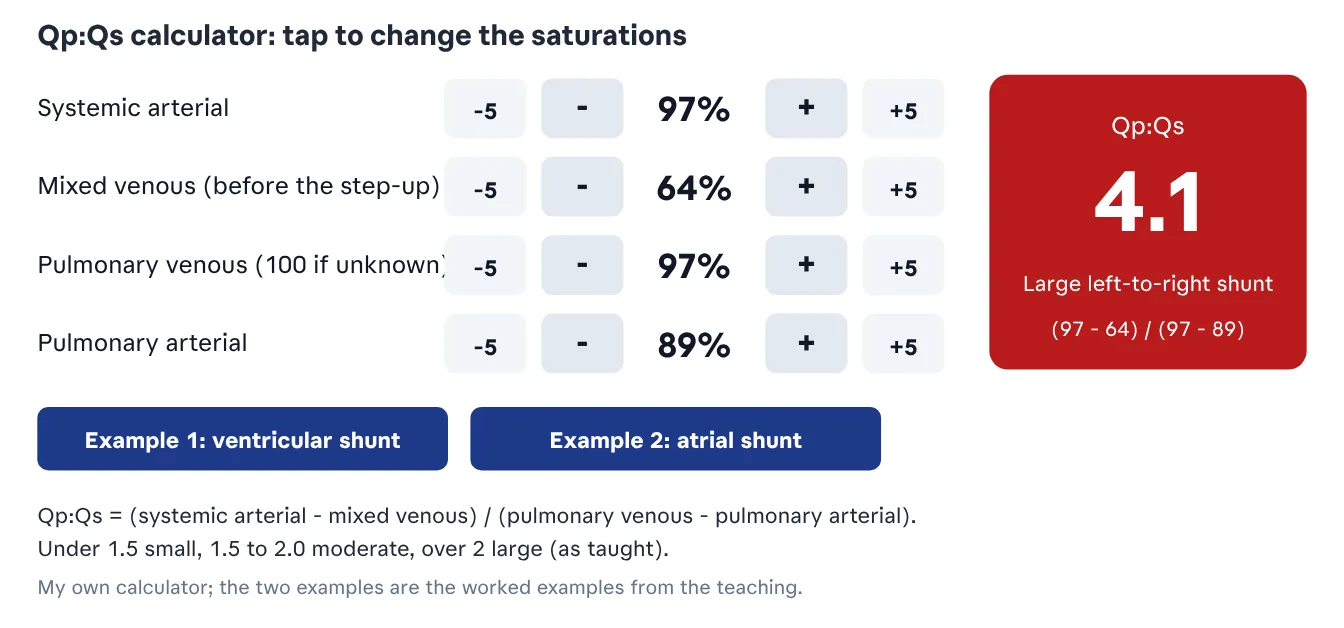
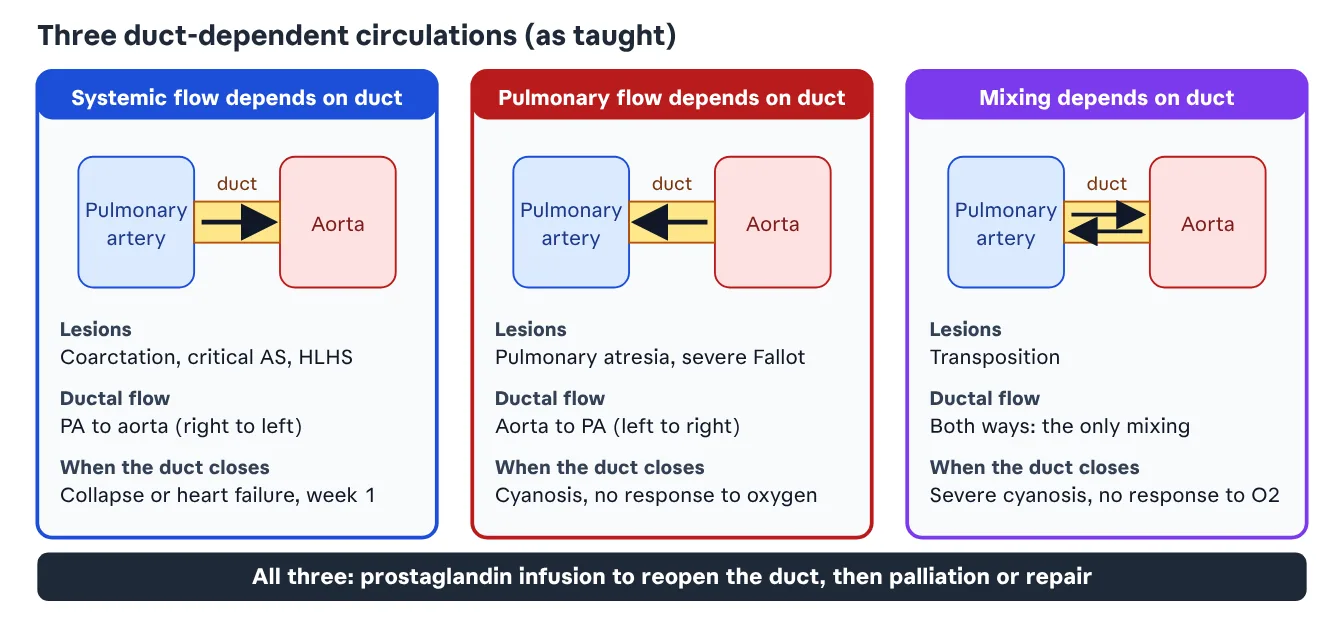
Congenital 5: seven more schematics redrawn from the teaching figures
Claude-Session: https://claude.ai/code/session_01Rh3NCGU1qAttPZ8CRZtk9w

diff --git a/st4/index.html b/st4/index.html
@@ -22007,6 +22007,7 @@ mark{background:var(--hit);color:inherit;border-radius:2px}
 <section id="tab-g4" data-slug="g4" data-title="4 Perioperative and transition" hidden><h1 id="g4--congenital-4-pulmonary-valve-ebstein-and-transition">Congenital 4: pulmonary valve, Ebstein and transition</h1><details class="toc"><summary>Contents (4 sections)</summary><ol><li><a href="#g4/g4--g2-addition-neonatal-and-infant-coarctation">G2 addition: neonatal and infant coarctation</a></li><li><a href="#g4/g4--g4-pulmonary-atresia-with-intact-ventricular-septum">G4: pulmonary atresia with intact ventricular septum</a></li><li><a href="#g4/g4--g5-ebstein-anomaly-in-neonates-and-infants">G5: Ebstein anomaly in neonates and infants</a></li><li><a href="#g4/g4--g6-ebstein-anomaly-in-older-children-and-adults">G6: Ebstein anomaly in older children and adults</a></li></ol></details><p>Congenital topics taken from the society-integrated handbook and not covered in the other congenital tabs. The evidence labels (Guideline, Consensus, Practical) are the handbook's; its 2026 sources were not checked by me.</p><h2 id="g4--g2-addition-neonatal-and-infant-coarctation">G2 addition: neonatal and infant coarctation</h2><p>Guideline (STS 2024). Surgery is standard. Without significant arch hypoplasia, repair through a thoracotomy; with hypoplasia that cannot be dealt with from that side, sternotomy is preferred. Selected higher-risk infants may be managed medically first; low weight alone is not a reason never to operate.</p><h2 id="g4--g4-pulmonary-atresia-with-intact-ventricular-septum">G4: pulmonary atresia with intact ventricular septum</h2><p>Consensus (AATS 2025).</p><div class="tw"><table><tr><th>Question</th><th>Content</th></tr><tr><td>Anatomy</td><td>RV size and morphology, tricuspid size and function, atrial communication, pulmonary arteries and duct, coronary pattern</td></tr><tr><td>The critical question</td><td>Is coronary perfusion dependent on RV pressure? Catheter assessment where needed</td></tr><tr><td>Favourable RV, no RV-dependent coronary circulation</td><td>Decompression may allow a biventricular pathway</td></tr><tr><td>Borderline RV</td><td>One-and-a-half ventricle or staged approach, reassessing growth</td></tr><tr><td>RV-dependent coronary circulation</td><td>Do not decompress the RV; single ventricle or transplant strategies</td></tr><tr><td>Pulmonary blood flow</td><td>Ductal stent or surgical shunt according to anatomy</td></tr></table></div><h2 id="g4--g5-ebstein-anomaly-in-neonates-and-infants">G5: Ebstein anomaly in neonates and infants</h2><p>Consensus (AATS 2024).</p><ul><li>High-risk features: severe cardiomegaly, prematurity, growth restriction, pulmonary atresia, circular shunt, LV dysfunction, shock.</li><li>Circular shunt: ductal flow passes back through pulmonary and tricuspid regurgitation; instability can require emergency interruption. This is why keeping every duct open is unsafe shorthand.</li><li>Refractory shock: Starnes palliation in selected neonates.</li><li>Stable without high-risk physiology: may improve as the duct closes, under specialist monitoring.</li><li>Inadequate pulmonary flow: ductal stent or shunt, a different problem from circular shunt.</li><li>After palliation, reassess for biventricular or single ventricle progression.</li></ul><h2 id="g4--g6-ebstein-anomaly-in-older-children-and-adults">G6: Ebstein anomaly in older children and adults</h2><p>Consensus (AATS 2025; over one year of age).</p><ul><li>Triggers: fatigue, objective fall in exercise capacity, cyanosis, exertional breathlessness. Use exercise testing and MRI, not symptoms alone.</li><li>MRI: both ventricles, regurgitant fraction, RV stroke volume.</li><li>Rhythm: look for accessory pathways and atrial arrhythmia and plan electrophysiology or surgical treatment; a concomitant Maze is reasonable with AF.</li><li>Valve: repair, usually cone reconstruction, or replacement by anatomy and expertise.</li><li>Bidirectional cavopulmonary shunt as an adjunct in severe RV compromise, not routinely.</li></ul></section>
 <section id="tab-g5" data-slug="g5" data-title="5 Core principles (London teaching 2024)" hidden><h1 id="g5--congenital-5-core-principles-london-deanery-teaching-2024">Congenital 5: core principles (London Deanery teaching 2024)</h1><details class="toc"><summary>Contents (15 sections)</summary><ol><li><a href="#g5/g5--basics">Basics</a></li><li><a href="#g5/g5--fetal-and-transitional-circulation">Fetal and transitional circulation</a></li><li><a href="#g5/g5--neonatal-physiology">Neonatal physiology</a></li><li><a href="#g5/g5--ductus-arteriosus">Ductus arteriosus</a></li><li><a href="#g5/g5--duct-dependent-circulations">Duct-dependent circulations</a></li><li><a href="#g5/g5--shunts-and-qp-qs">Shunts and Qp:Qs</a></li><li><a href="#g5/g5--morphology">Morphology</a></li><li><a href="#g5/g5--septal-defects">Septal defects</a></li><li><a href="#g5/g5--duct-coarctation-and-arch">Duct, coarctation and arch</a></li><li><a href="#g5/g5--tetralogy-of-fallot">Tetralogy of Fallot</a></li><li><a href="#g5/g5--transposition-of-the-great-arteries">Transposition of the great arteries</a></li><li><a href="#g5/g5--common-arterial-trunk-truncus-arteriosus">Common arterial trunk (truncus arteriosus)</a></li><li><a href="#g5/g5--total-anomalous-pulmonary-venous-drainage">Total anomalous pulmonary venous drainage</a></li><li><a href="#g5/g5--hypoplastic-left-heart-and-single-ventricle-palliation">Hypoplastic left heart and single-ventricle palliation</a></li><li><a href="#g5/g5--general-approach-to-any-congenital-lesion">General approach to any congenital lesion</a></li></ol></details>
 <p>Added 19 November 2026 from the slide deck you attached, read in full (92 slides): "Surgery for congenital heart disease", Shafi Mussa, Consultant Congenital Cardiac Surgeon, Bristol; London Deanery teaching programme, 21 November 2024. Everything here is <strong>as taught</strong> unless a row says otherwise; I have not checked the figures against guidelines. Rows marked "memory" are my additions. The drawings are my own; the slide images are not copied.</p>
+<p>About the pictures (19 November 2026): about 50 slides carry a figure. I looked at every one. They are textbook and atlas illustrations, specimen photographs, angiograms and operative photographs belonging to other people, and this notebook's app is on a public web address, so I have not copied them in. Instead each figure's content is redrawn below as my own schematic (ten drawings and one calculator), and anything a figure showed that the slide text did not say is written into the tables and marked. Three kinds of picture cannot be replaced by a schematic and are worth looking at in the original deck: the specimen photographs of the right and left ventricle and the conduction axis (slides 29, 30, 33, 34), the outflow tract stent angiograms (slide 58), and the operative photographs of transposition and the arterial switch (slides 63 and 66).</p>
 <h2 id="g5--basics">Basics</h2>
 <div class="tw"><table>
 
@@ -22075,6 +22076,8 @@ mark{background:var(--hit);color:inherit;border-radius:2px}
 </tr>
 
 </table></div>
+<figure><img loading="lazy" src="img/g5-1.webp" width="1344" height="890" alt="Fetal circulation as two streams, and the fall in pulmonary vascular resistance after birth (my own schematic)"><figcaption>Fetal circulation as two streams, and the fall in pulmonary vascular resistance after birth (my own schematic)</figcaption></figure>
+<p>Shown on the slides as graphs, not in the text: after birth pulmonary artery pressure and resistance fall while pulmonary blood flow rises; and the fetal haemoglobin dissociation curve lies to the left of the adult curve, so fetal blood is more saturated at any given pO2.</p>
 <h2 id="g5--neonatal-physiology">Neonatal physiology</h2>
 <ul>
 <li><p>High metabolic rate and oxygen consumption; high respiratory rate and cardiac index.</p></li>
@@ -22149,7 +22152,7 @@ mark{background:var(--hit);color:inherit;border-radius:2px}
 </tr>
 
 </table></div>
-<figure><img loading="lazy" src="img/g5-1.webp" width="1344" height="628" alt="The three duct-dependent circulations (my own schematic)"><figcaption>The three duct-dependent circulations (my own schematic)</figcaption></figure>
+<figure><img loading="lazy" src="img/g5-2.webp" width="1344" height="628" alt="The three duct-dependent circulations (my own schematic)"><figcaption>The three duct-dependent circulations (my own schematic)</figcaption></figure>
 <h2 id="g5--shunts-and-qp-qs">Shunts and Qp:Qs</h2>
 <div class="tw"><table>
 
@@ -22222,6 +22225,7 @@ mark{background:var(--hit);color:inherit;border-radius:2px}
 
 </table></div>
 <div class="qpqs" style="border:1px solid var(--line);border-radius:10px;padding:14px;margin:1.2em 0;background:var(--card)"><strong>Qp:Qs calculator</strong><div style="font-size:.9em;margin:.4em 0">Enter the saturations (%). Use 100 for pulmonary venous if not given.</div><label style="display:flex;justify-content:space-between;align-items:center;margin:.35em 0">Systemic arterial <input id="q_sa" type="number" inputmode="numeric" min="20" max="100" value="97" oninput="qpqs()" style="width:5em;font-size:1.1em;padding:.3em;text-align:right"></label><label style="display:flex;justify-content:space-between;align-items:center;margin:.35em 0">Mixed venous (before the step-up) <input id="q_sv" type="number" inputmode="numeric" min="20" max="100" value="64" oninput="qpqs()" style="width:5em;font-size:1.1em;padding:.3em;text-align:right"></label><label style="display:flex;justify-content:space-between;align-items:center;margin:.35em 0">Pulmonary venous <input id="q_pv" type="number" inputmode="numeric" min="20" max="100" value="97" oninput="qpqs()" style="width:5em;font-size:1.1em;padding:.3em;text-align:right"></label><label style="display:flex;justify-content:space-between;align-items:center;margin:.35em 0">Pulmonary arterial <input id="q_pa" type="number" inputmode="numeric" min="20" max="100" value="89" oninput="qpqs()" style="width:5em;font-size:1.1em;padding:.3em;text-align:right"></label><div style="margin:.5em 0"><button type="button" onclick="qpset(97,64,97,89)" style="padding:.45em .7em;margin-right:.5em">Example 1: ventricular</button><button type="button" onclick="qpset(96,70,96,80)" style="padding:.45em .7em">Example 2: atrial</button></div><div id="q_out" style="font-size:1.25em;font-weight:700;margin-top:.5em"></div><div style="font-size:.85em;opacity:.8;margin-top:.3em">Qp:Qs = (systemic arterial - mixed venous) / (pulmonary venous - pulmonary arterial). Under 1.5 small, 1.5 to 2.0 moderate, over 2 large (as taught).</div></div><script>function qpqs(){var g=function(i){return parseFloat(document.getElementById(i).value)};var d=g("q_pv")-g("q_pa"),o=document.getElementById("q_out");if(!(d>0)||isNaN(d)){o.textContent="Not calculable";return}var r=(g("q_sa")-g("q_sv"))/d;if(isNaN(r)){o.textContent="Not calculable";return}o.textContent="Qp:Qs "+r.toFixed(1)+" - "+(r<1?"net right-to-left":r<1.5?"small left-to-right shunt":r<=2?"moderate left-to-right shunt":"large left-to-right shunt")}function qpset(a,b,c,d){document.getElementById("q_sa").value=a;document.getElementById("q_sv").value=b;document.getElementById("q_pv").value=c;document.getElementById("q_pa").value=d;qpqs()}qpqs()</script>
+<figure><img loading="lazy" src="img/g5-4.webp" width="1344" height="666" alt="The two worked examples as saturation maps, with the step-up highlighted (my own layout)"><figcaption>The two worked examples as saturation maps, with the step-up highlighted (my own layout)</figcaption></figure>
 <p>Mixed venous saturation when the step-up is at atrial level is usually taken as (3 x SVC + 1 x IVC) ÷ 4 (memory; not on the slides).</p>
 <h2 id="g5--morphology">Morphology</h2>
 <div class="tw"><table>
@@ -22291,6 +22295,7 @@ mark{background:var(--hit);color:inherit;border-radius:2px}
 </tr>
 
 </table></div>
+<figure><img loading="lazy" src="img/g5-5.webp" width="1344" height="760" alt="Where each type of ASD, VSD and AVSD sits (my own schematics)"><figcaption>Where each type of ASD, VSD and AVSD sits (my own schematics)</figcaption></figure>
 <h3 id="g5--pulmonary-artery-band">Pulmonary artery band</h3>
 <ul>
 <li><p>Restricts excessive pulmonary flow with a band on the main pulmonary artery, usually 3 mm silicone-impregnated nylon tape.</p></li>
@@ -22328,6 +22333,39 @@ mark{background:var(--hit);color:inherit;border-radius:2px}
 <tr>
 <td>Interrupted aortic arch</td>
 <td>1%. Type A distal to the left subclavian (associated with aortopulmonary window); type B between left carotid and left subclavian (commonest, almost all have a VSD); type C between innominate and left carotid (very rare). Duct-dependent beyond the interruption. Prostaglandin, then arch reconstruction with the associated lesions</td>
+</tr>
+
+</table></div>
+<figure><img loading="lazy" src="img/g5-6.webp" width="1344" height="816" alt="Systemic-to-pulmonary shunts, interrupted arch types A to C and the steps of coarctation repair (my own schematics)"><figcaption>Systemic-to-pulmonary shunts, interrupted arch types A to C and the steps of coarctation repair (my own schematics)</figcaption></figure>
+<div class="tw"><table>
+
+
+<tr>
+<th>Shunt (named on the slide figure)</th>
+<th>Connection</th>
+<th>Note</th>
+</tr>
+
+
+<tr>
+<td>Classic Blalock-Taussig</td>
+<td>Subclavian artery divided and turned down, end to side, to the pulmonary artery</td>
+<td>Sacrifices the subclavian (memory)</td>
+</tr>
+<tr>
+<td>Modified Blalock-Taussig</td>
+<td>Gore-Tex tube from the subclavian or innominate artery to the pulmonary artery</td>
+<td>The one used now; size about 3.5 to 4 mm in a neonate (memory)</td>
+</tr>
+<tr>
+<td>Waterston</td>
+<td>Ascending aorta to right pulmonary artery</td>
+<td>Historical: uncontrolled flow, pulmonary artery distortion (memory)</td>
+</tr>
+<tr>
+<td>Potts</td>
+<td>Descending aorta to left pulmonary artery</td>
+<td>Historical; now occasionally used in reverse for severe pulmonary hypertension (memory)</td>
 </tr>
 
 </table></div>
@@ -22423,6 +22461,8 @@ mark{background:var(--hit);color:inherit;border-radius:2px}
 </tr>
 
 </table></div>
+<figure><img loading="lazy" src="img/g5-7.webp" width="1344" height="890" alt="Fallot as one deviation with four features, transposition as two parallel circuits, and the arterial switch in six steps (my own block diagrams)"><figcaption>Fallot as one deviation with four features, transposition as two parallel circuits, and the arterial switch in six steps (my own block diagrams)</figcaption></figure>
+<p>Arterial switch steps (the slides showed these as pictures only; written from memory): divide the duct and transect both great arteries; excise the two coronary ostia as buttons; bring the pulmonary bifurcation in front of the aorta (Lecompte manoeuvre); implant the buttons into the old pulmonary root, which becomes the neo-aorta; join the distal aorta to it; fill the button defects in the old aortic root with a pericardial patch and join it to the pulmonary bifurcation; close the ASD. The operative photographs show the usual relationship: aorta anterior and to the right of the pulmonary artery, with the coronaries arising from the two facing sinuses.</p>
 <h2 id="g5--common-arterial-trunk-truncus-arteriosus">Common arterial trunk (truncus arteriosus)</h2>
 <div class="tw"><table>
 
@@ -22515,6 +22555,8 @@ mark{background:var(--hit);color:inherit;border-radius:2px}
 </tr>
 
 </table></div>
+<figure><img loading="lazy" src="img/g5-8.webp" width="1344" height="796" alt="Common arterial trunk types and the four drainage sites of TAPVD (my own schematics)"><figcaption>Common arterial trunk types and the four drainage sites of TAPVD (my own schematics)</figcaption></figure>
+<p>The trunk slide showed the Collett and Edwards and the Van Praagh classifications as a figure without text. From memory: Collett and Edwards I (main pulmonary artery from the trunk), II (branches separate but adjacent, posterior), III (branches separate, lateral); Van Praagh A1 to A4, where A3 has one branch from the trunk and the other from the duct or a collateral, and A4 is trunk with interrupted arch.</p>
 <h2 id="g5--hypoplastic-left-heart-and-single-ventricle-palliation">Hypoplastic left heart and single-ventricle palliation</h2>
 <div class="tw"><table>
 
@@ -22593,7 +22635,8 @@ mark{background:var(--hit);color:inherit;border-radius:2px}
 </tr>
 
 </table></div>
-<figure><img loading="lazy" src="img/g5-3.webp" width="1344" height="628" alt="Single-ventricle palliation: Norwood, Glenn, Fontan with ages and expected saturations (my own chart)"><figcaption>Single-ventricle palliation: Norwood, Glenn, Fontan with ages and expected saturations (my own chart)</figcaption></figure>
+<figure><img loading="lazy" src="img/g5-9.webp" width="1344" height="628" alt="Single-ventricle palliation: Norwood, Glenn, Fontan with ages and expected saturations (my own chart)"><figcaption>Single-ventricle palliation: Norwood, Glenn, Fontan with ages and expected saturations (my own chart)</figcaption></figure>
+<figure><img loading="lazy" src="img/g5-10.webp" width="1344" height="852" alt="Where the blood goes after Norwood, Glenn and Fontan (my own flow diagrams)"><figcaption>Where the blood goes after Norwood, Glenn and Fontan (my own flow diagrams)</figcaption></figure>
 <p>Norwood shunt choice (SVR trial), as taught: the classical shunt has shunt physiology with lower diastolic pressure and coronary steal; the right ventricle to pulmonary artery conduit needs a ventriculotomy, with questions over right ventricular function, arrhythmia, aneurysm and pulmonary artery growth. From memory, the trial (Ohye, N Engl J Med 2010) found better transplant-free survival at 12 months with the conduit (74% against 64%) with no difference on longer follow-up; not checked.</p>
 <p>Norwood physiology is Starling applied to one ventricle: preload (venous return, competent tricuspid valve), contractility (coronary perfusion) and afterload (unobstructed arch reconstruction), while balancing the pulmonary and systemic circulations.</p>
 <h2 id="g5--general-approach-to-any-congenital-lesion">General approach to any congenital lesion</h2>

diff --git a/st4/sw.js b/st4/sw.js
@@ -1,5 +1,5 @@
-const CACHE='st4-9afc17e85d';
-const ASSETS=["./", "index.html", "manifest.webmanifest", "apple-touch-icon.png", "icon-192.png", "icon-512.png", "img/t1-1.webp", "img/t1-2.webp", "img/t1-3.webp", "img/t1-4.webp", "img/t1-5.webp", "img/t1-6.webp", "img/t2-1.webp", "img/t2-2.webp", "img/t2-3.webp", "img/t2-4.webp", "img/t2-5.webp", "img/t2-6.webp", "img/t3-1.webp", "img/t3-2.webp", "img/t4-1.webp", "img/t4-2.webp", "img/t4-3.webp", "img/t4-4.webp", "img/t4-5.webp", "img/t4-6.webp", "img/t5-1.webp", "img/t5-2.webp", "img/t5-3.webp", "img/t5-4.webp", "img/t6-1.webp", "img/t6-2.webp", "img/t7-1.webp", "img/t7-2.webp", "img/t7-3.webp", "img/t7-4.webp", "img/t7-5.webp", "img/t7-6.webp", "img/t9-1.webp", "img/t9-2.webp", "img/t9-3.webp", "img/t9-4.webp", "img/t9-5.webp", "img/t9-6.webp", "img/t9-7.webp", "img/t9-8.webp", "img/t9-9.webp", "img/t9-10.webp", "img/t9-11.webp", "img/t9-12.webp", "img/t9-13.webp", "img/t9-14.webp", "img/t9-15.webp", "img/t9-16.webp", "img/t9-17.webp", "img/t9-18.webp", "img/cardiac-1.webp", "img/cardiac-2.webp", "img/cardiac-3.webp", "img/cardiac-4.webp", "img/cardiac-5.webp", "img/c1-1.webp", "img/c1-2.webp", "img/c1-3.webp", "img/c1-4.webp", "img/c1-5.webp", "img/c1-6.webp", "img/c1-7.webp", "img/c1-8.webp", "img/c1-9.webp", "img/c1-10.webp", "img/c1-11.webp", "img/c1-12.webp", "img/c1-13.webp", "img/c1-14.webp", "img/c1-15.webp", "img/c1-16.webp", "img/c1-17.webp", "img/c1-18.webp", "img/c1-19.webp", "img/c1-20.webp", "img/c1-21.webp", "img/c1-22.webp", "img/c2-1.webp", "img/c2-2.webp", "img/c2-3.webp", "img/c2-4.webp", "img/c2-5.webp", "img/c2-6.webp", "img/c2-7.webp", "img/c2-8.webp", "img/c2-9.webp", "img/c2-10.webp", "img/c2-11.webp", "img/c2-12.webp", "img/c2-13.webp", "img/c2-14.webp", "img/c2-15.webp", "img/c4-1.webp", "img/c4-2.webp", "img/c4-3.webp", "img/c4-4.webp", "img/c4-5.webp", "img/c4-6.webp", "img/c4-7.webp", "img/c5-1.webp", "img/c6-1.webp", "img/c6-2.webp", "img/c6-3.webp", "img/c7-1.webp", "img/c7-2.webp", "img/c7-3.webp", "img/c7-4.webp", "img/c7-5.webp", "img/c7-6.webp", "img/c7-7.webp", "img/c8-1.webp", "img/c8-2.webp", "img/c8-3.webp", "img/c8-4.webp", "img/c8-5.webp", "img/c8-6.webp", "img/c8-7.webp", "img/c8-8.webp", "img/c8-9.webp", "img/c8-10.webp", "img/c8-11.webp", "img/c8-12.webp", "img/c8-13.webp", "img/c8-14.webp", "img/c8-15.webp", "img/c8-16.webp", "img/c8-17.webp", "img/c8-18.webp", "img/c8-19.webp", "img/c8-20.webp", "img/c8-21.webp", "img/c8-22.webp", "img/c9-1.webp", "img/c9-2.webp", "img/c9-3.webp", "img/c9-4.webp", "img/c9-5.webp", "img/c9-6.webp", "img/c9-7.webp", "img/c9-8.webp", "img/c9-9.webp", "img/c9-10.webp", "img/c9-11.webp", "img/c9-12.webp", "img/c9-13.webp", "img/c9-14.webp", "img/c9-15.webp", "img/c9-16.webp", "img/c9-17.webp", "img/c9-18.webp", "img/c9-19.webp", "img/c9-20.webp", "img/c9-21.webp", "img/c9-22.webp", "img/c9-23.webp", "img/c9-24.webp", "img/c9-25.webp", "img/c10-1.webp", "img/c10-2.webp", "img/c10-3.webp", "img/c10-4.webp", "img/g2-1.webp", "img/g2-2.webp", "img/g2-3.webp", "img/g3-1.webp", "img/g5-1.webp", "img/g5-2.webp", "img/g5-3.webp", "img/fb-3.webp"];
+const CACHE='st4-1a1576b716';
+const ASSETS=["./", "index.html", "manifest.webmanifest", "apple-touch-icon.png", "icon-192.png", "icon-512.png", "img/t1-1.webp", "img/t1-2.webp", "img/t1-3.webp", "img/t1-4.webp", "img/t1-5.webp", "img/t1-6.webp", "img/t2-1.webp", "img/t2-2.webp", "img/t2-3.webp", "img/t2-4.webp", "img/t2-5.webp", "img/t2-6.webp", "img/t3-1.webp", "img/t3-2.webp", "img/t4-1.webp", "img/t4-2.webp", "img/t4-3.webp", "img/t4-4.webp", "img/t4-5.webp", "img/t4-6.webp", "img/t5-1.webp", "img/t5-2.webp", "img/t5-3.webp", "img/t5-4.webp", "img/t6-1.webp", "img/t6-2.webp", "img/t7-1.webp", "img/t7-2.webp", "img/t7-3.webp", "img/t7-4.webp", "img/t7-5.webp", "img/t7-6.webp", "img/t9-1.webp", "img/t9-2.webp", "img/t9-3.webp", "img/t9-4.webp", "img/t9-5.webp", "img/t9-6.webp", "img/t9-7.webp", "img/t9-8.webp", "img/t9-9.webp", "img/t9-10.webp", "img/t9-11.webp", "img/t9-12.webp", "img/t9-13.webp", "img/t9-14.webp", "img/t9-15.webp", "img/t9-16.webp", "img/t9-17.webp", "img/t9-18.webp", "img/cardiac-1.webp", "img/cardiac-2.webp", "img/cardiac-3.webp", "img/cardiac-4.webp", "img/cardiac-5.webp", "img/c1-1.webp", "img/c1-2.webp", "img/c1-3.webp", "img/c1-4.webp", "img/c1-5.webp", "img/c1-6.webp", "img/c1-7.webp", "img/c1-8.webp", "img/c1-9.webp", "img/c1-10.webp", "img/c1-11.webp", "img/c1-12.webp", "img/c1-13.webp", "img/c1-14.webp", "img/c1-15.webp", "img/c1-16.webp", "img/c1-17.webp", "img/c1-18.webp", "img/c1-19.webp", "img/c1-20.webp", "img/c1-21.webp", "img/c1-22.webp", "img/c2-1.webp", "img/c2-2.webp", "img/c2-3.webp", "img/c2-4.webp", "img/c2-5.webp", "img/c2-6.webp", "img/c2-7.webp", "img/c2-8.webp", "img/c2-9.webp", "img/c2-10.webp", "img/c2-11.webp", "img/c2-12.webp", "img/c2-13.webp", "img/c2-14.webp", "img/c2-15.webp", "img/c4-1.webp", "img/c4-2.webp", "img/c4-3.webp", "img/c4-4.webp", "img/c4-5.webp", "img/c4-6.webp", "img/c4-7.webp", "img/c5-1.webp", "img/c6-1.webp", "img/c6-2.webp", "img/c6-3.webp", "img/c7-1.webp", "img/c7-2.webp", "img/c7-3.webp", "img/c7-4.webp", "img/c7-5.webp", "img/c7-6.webp", "img/c7-7.webp", "img/c8-1.webp", "img/c8-2.webp", "img/c8-3.webp", "img/c8-4.webp", "img/c8-5.webp", "img/c8-6.webp", "img/c8-7.webp", "img/c8-8.webp", "img/c8-9.webp", "img/c8-10.webp", "img/c8-11.webp", "img/c8-12.webp", "img/c8-13.webp", "img/c8-14.webp", "img/c8-15.webp", "img/c8-16.webp", "img/c8-17.webp", "img/c8-18.webp", "img/c8-19.webp", "img/c8-20.webp", "img/c8-21.webp", "img/c8-22.webp", "img/c9-1.webp", "img/c9-2.webp", "img/c9-3.webp", "img/c9-4.webp", "img/c9-5.webp", "img/c9-6.webp", "img/c9-7.webp", "img/c9-8.webp", "img/c9-9.webp", "img/c9-10.webp", "img/c9-11.webp", "img/c9-12.webp", "img/c9-13.webp", "img/c9-14.webp", "img/c9-15.webp", "img/c9-16.webp", "img/c9-17.webp", "img/c9-18.webp", "img/c9-19.webp", "img/c9-20.webp", "img/c9-21.webp", "img/c9-22.webp", "img/c9-23.webp", "img/c9-24.webp", "img/c9-25.webp", "img/c10-1.webp", "img/c10-2.webp", "img/c10-3.webp", "img/c10-4.webp", "img/g2-1.webp", "img/g2-2.webp", "img/g2-3.webp", "img/g3-1.webp", "img/g5-1.webp", "img/g5-2.webp", "img/g5-3.webp", "img/g5-4.webp", "img/g5-5.webp", "img/g5-6.webp", "img/g5-7.webp", "img/g5-8.webp", "img/g5-9.webp", "img/g5-10.webp", "img/fb-3.webp"];
 self.addEventListener('install',e=>{e.waitUntil(caches.open(CACHE).then(async c=>{await c.addAll(ASSETS.slice(0,6));await Promise.allSettled(ASSETS.slice(6).map(a=>c.add(a)));}).then(()=>self.skipWaiting()));});
 self.addEventListener('activate',e=>{e.waitUntil(caches.keys().then(ks=>Promise.all(ks.filter(k=>k.startsWith('st4-')&&k!==CACHE).map(k=>caches.delete(k)))).then(()=>self.clients.claim()));});
 self.addEventListener('fetch',e=>{
